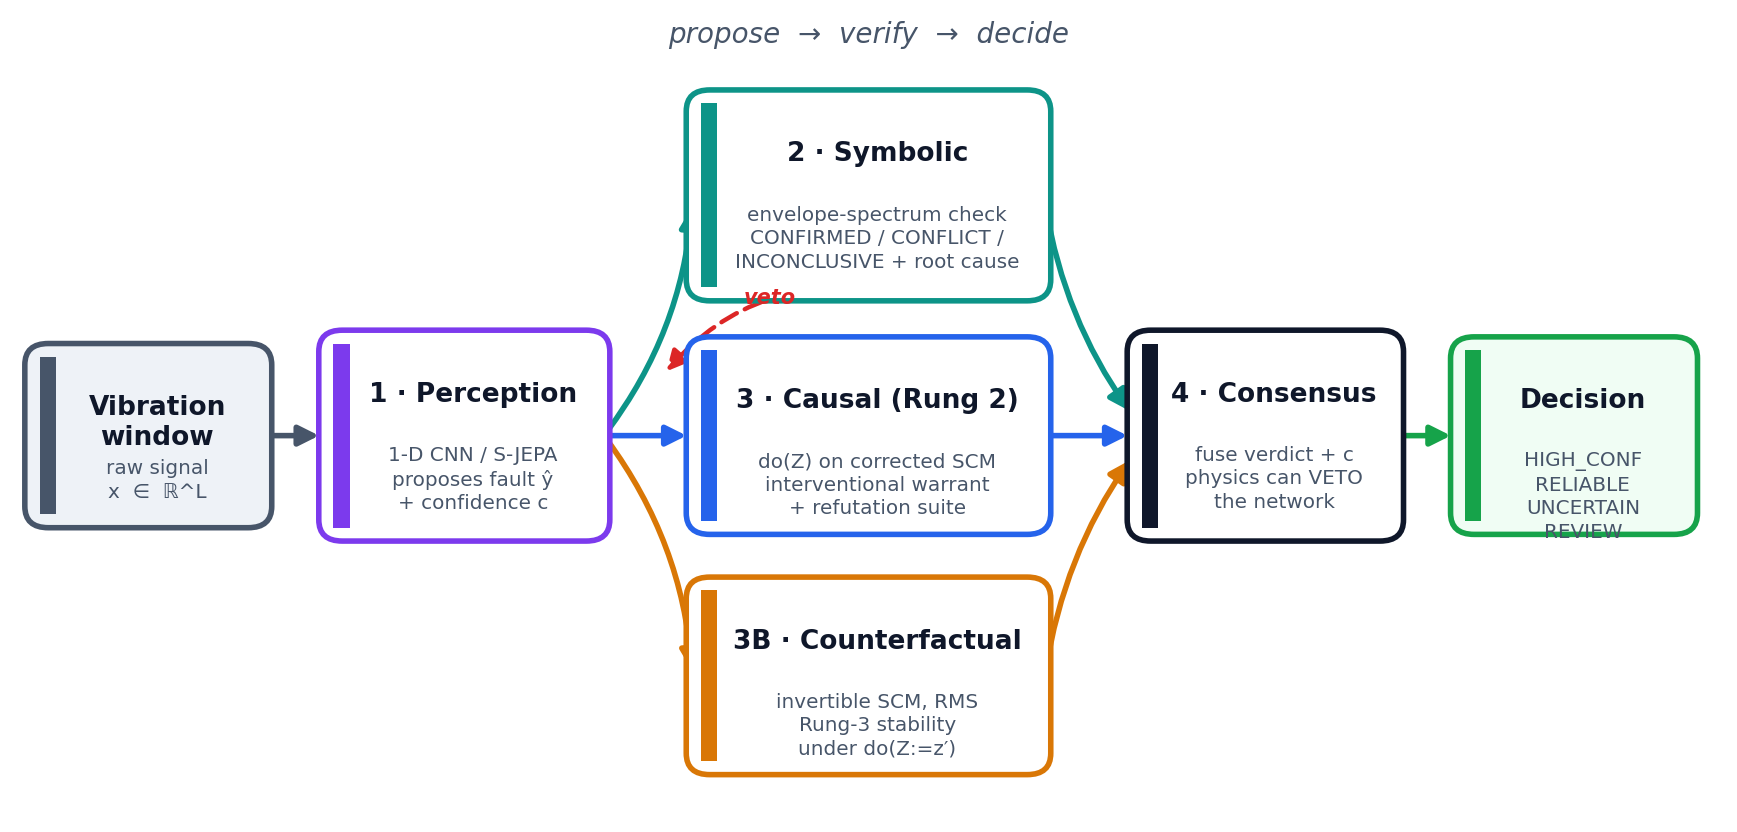
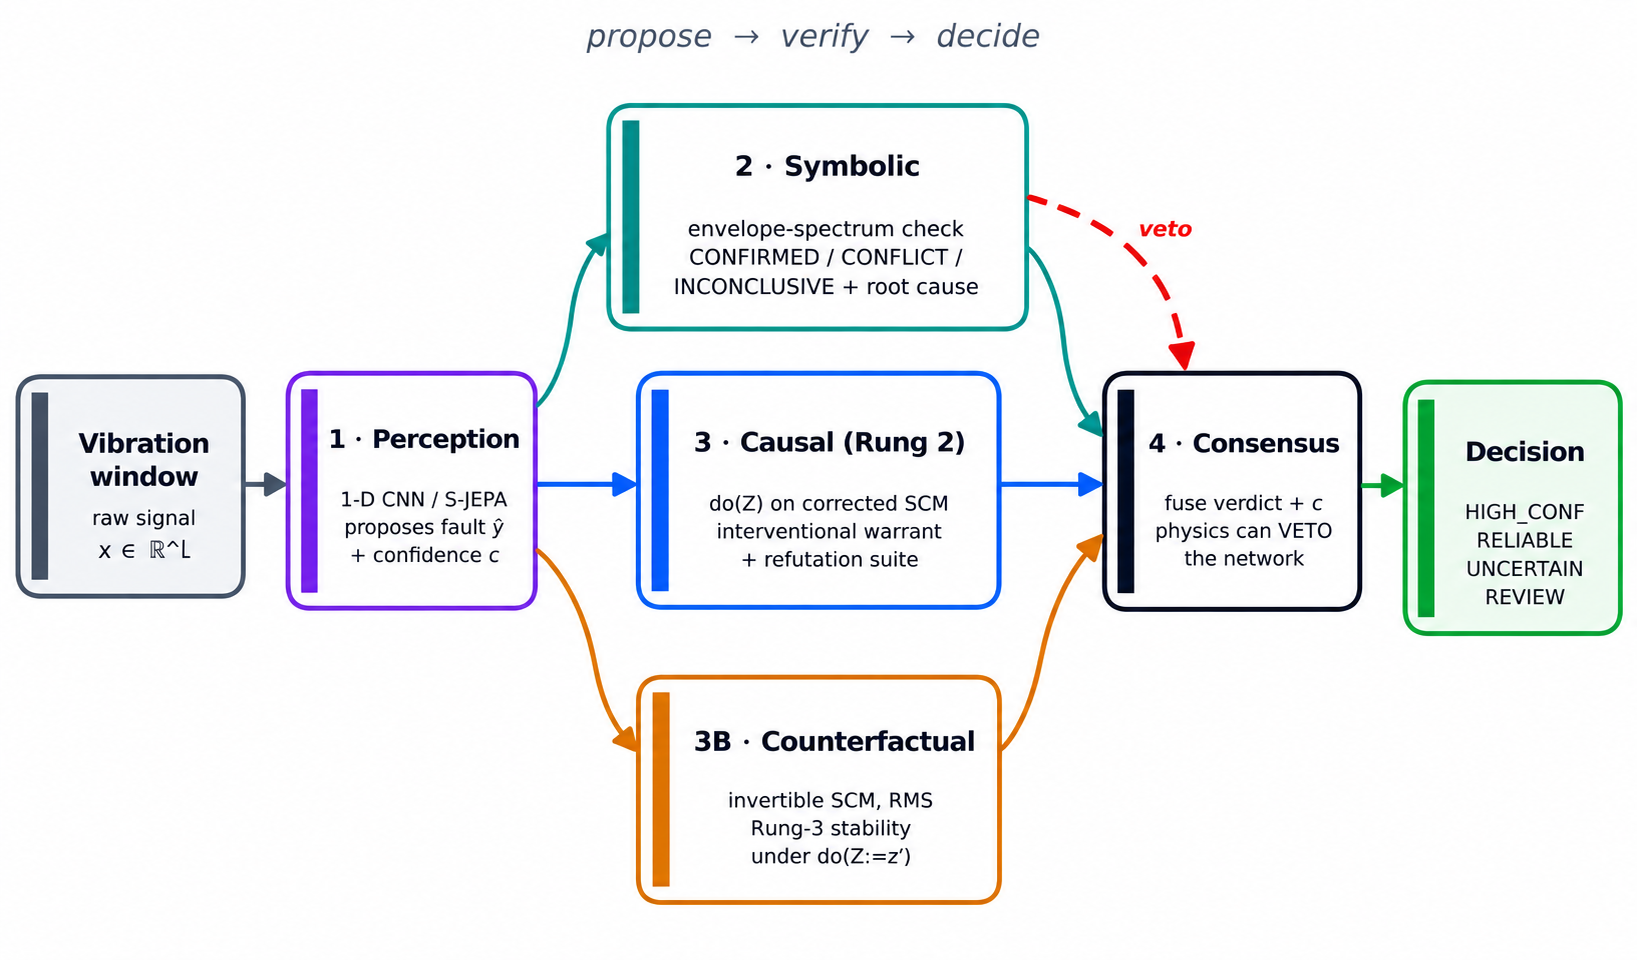
fix: Readme tighter wordings and updated figs

Changed region(s): [[0.0, 0.0938, 0.9969, 0.9688], [0.3427, 0.0312, 0.6542, 0.0625]]

diff --git a/README.md b/README.md
@@ -22,7 +22,7 @@
 
 **CNSD (Causal Neuro-Symbolic Diagnosis)** is a Python framework for diagnosing rolling-element **bearing faults** from vibration signals. A neural network proposes a diagnosis; then three independent layers check that proposal against the **physics of the signal** and the **causal structure of the machine**, and a consensus layer turns the result into an actionable maintenance decision.
 
-The problem it solves is **operating-condition shift**: a model trained at one load or speed silently loses accuracy at another, and its confidence — the usual signal for "can I trust this prediction?" — is the first thing to break. CNSD answers a question a plain classifier cannot: *is this predicted fault physically present in the signal, and would it survive a change of operating condition?*
+The problem it solves is **operating-condition shift**: a model trained at one load or speed silently loses accuracy at another, and its confidence (the usual signal for "can I trust this prediction?") is the first thing to break. CNSD answers a question a plain classifier cannot: *is this predicted fault physically present in the signal, and would it survive a change of operating condition?*
 
 ```python
 from cnsd import CNSD, Dataset
@@ -127,7 +127,7 @@ Across three public bearing datasets, we compare reliability estimators at **mat
 
 **Noise robustness.** As additive noise increases, the physics layer catches the ensemble's *confident* errors: **100% at 0 dB on XJTU-SY**, ~40% on the saturated CWRU regime.
 
-> **On the CWRU null.** We report it at equal prominence because it is *evidence*, not a weakness. CNSD's thesis is that mechanistic verification helps where the signal is degraded and the network is unsure — and adds nothing where predictions are already reliable. CWRU's cross-load task is comparatively saturated, so the absence of an advantage there is exactly what the mechanism predicts.
+> **On the CWRU null.** We report it at equal prominence because it is *evidence*, not a weakness. CNSD's thesis is that mechanistic verification helps where the signal is degraded and the network is unsure and adds nothing where predictions are already reliable. CWRU's cross-load task is comparatively saturated, so the absence of an advantage there is exactly what the mechanism predicts.
 
 ---
 